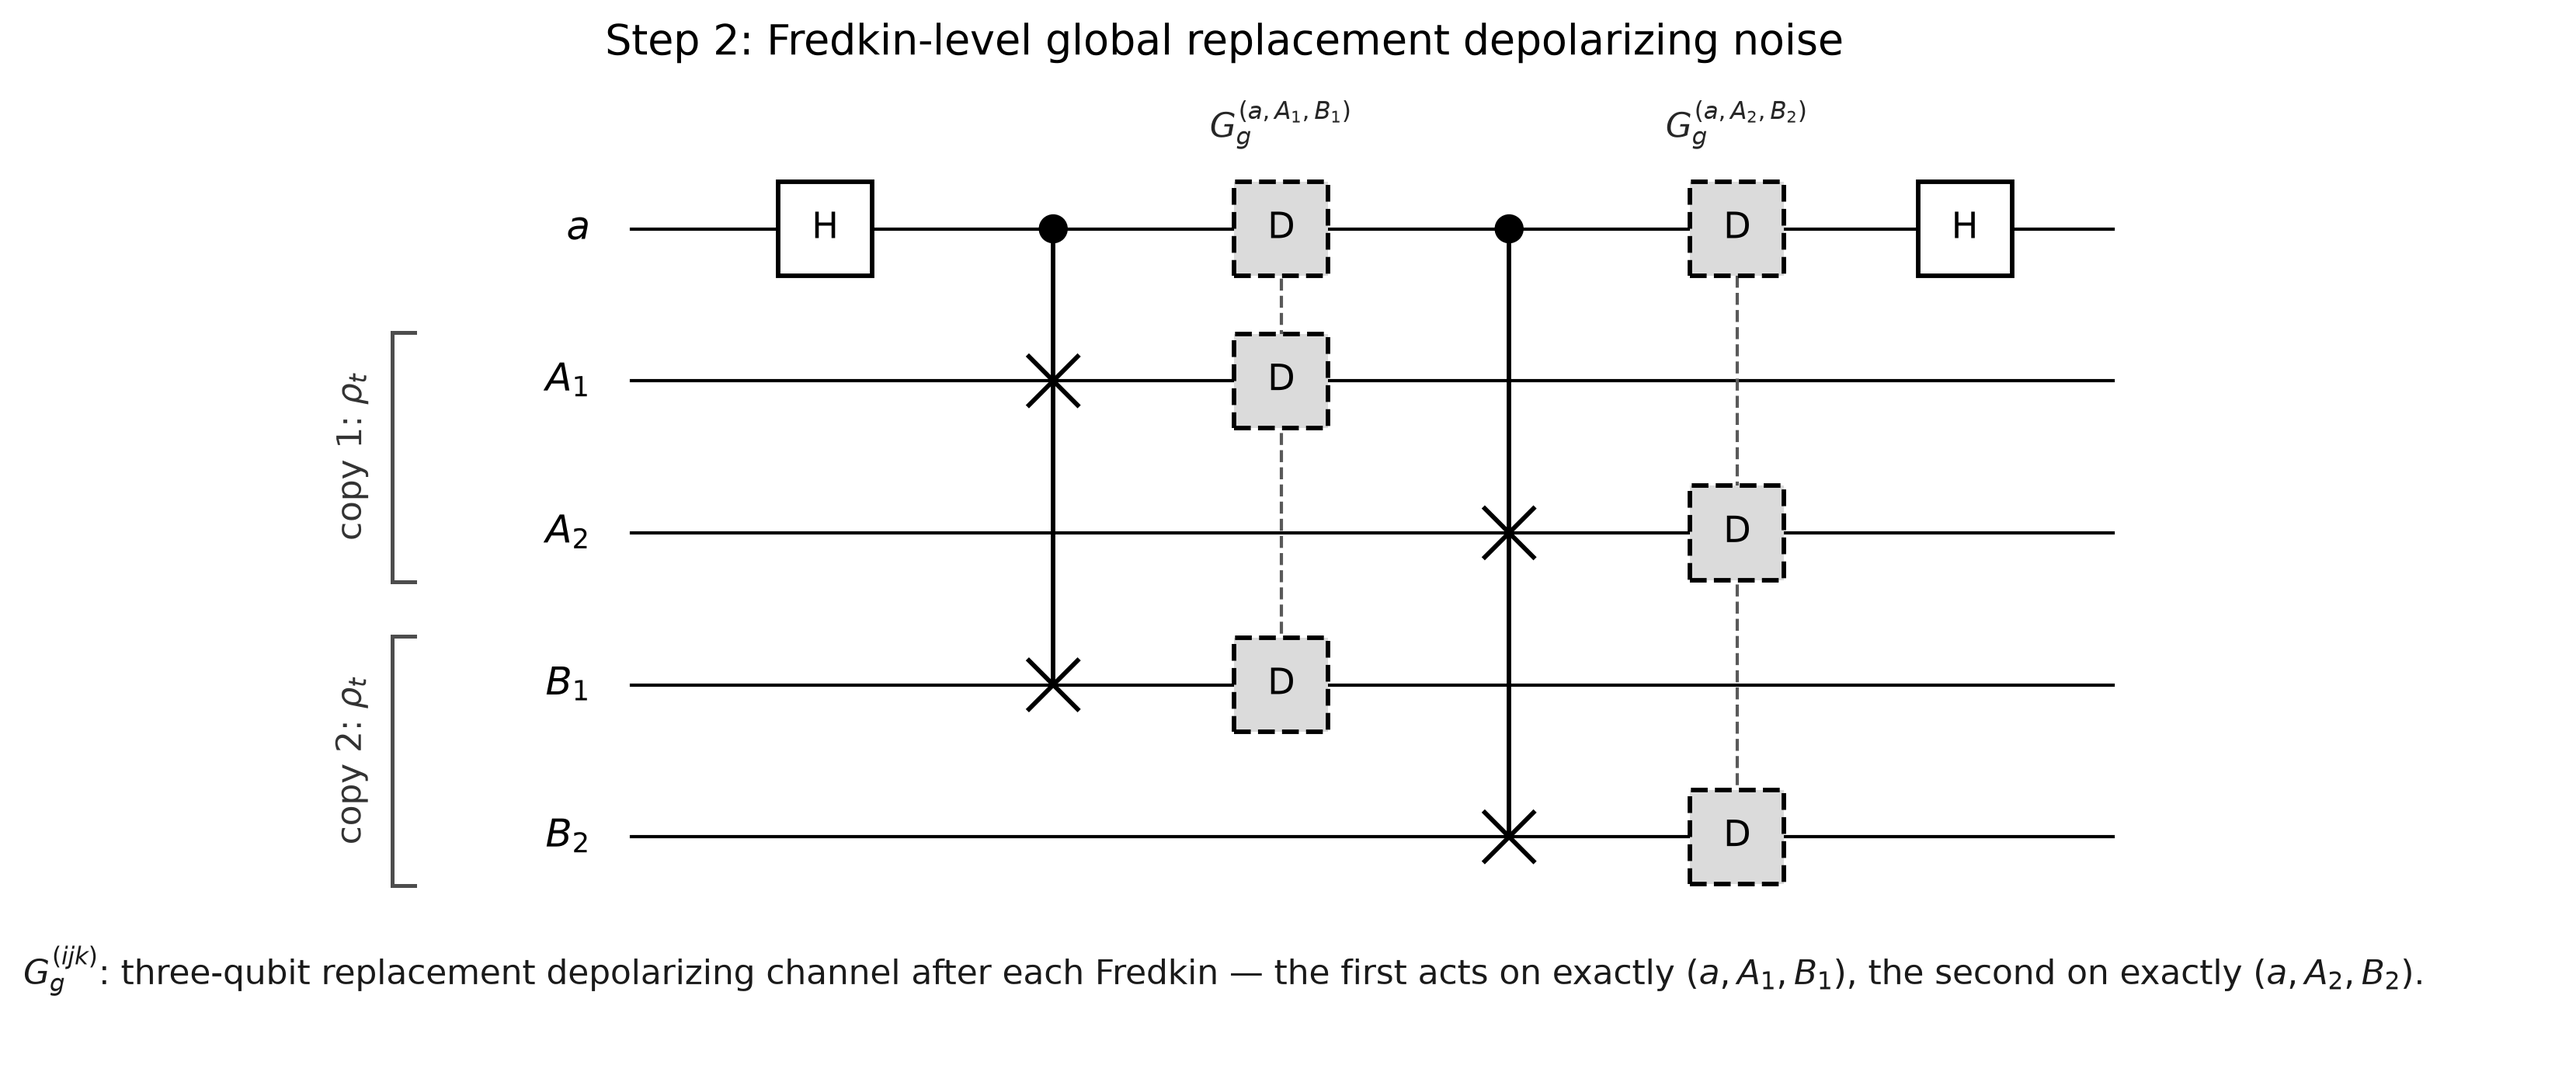
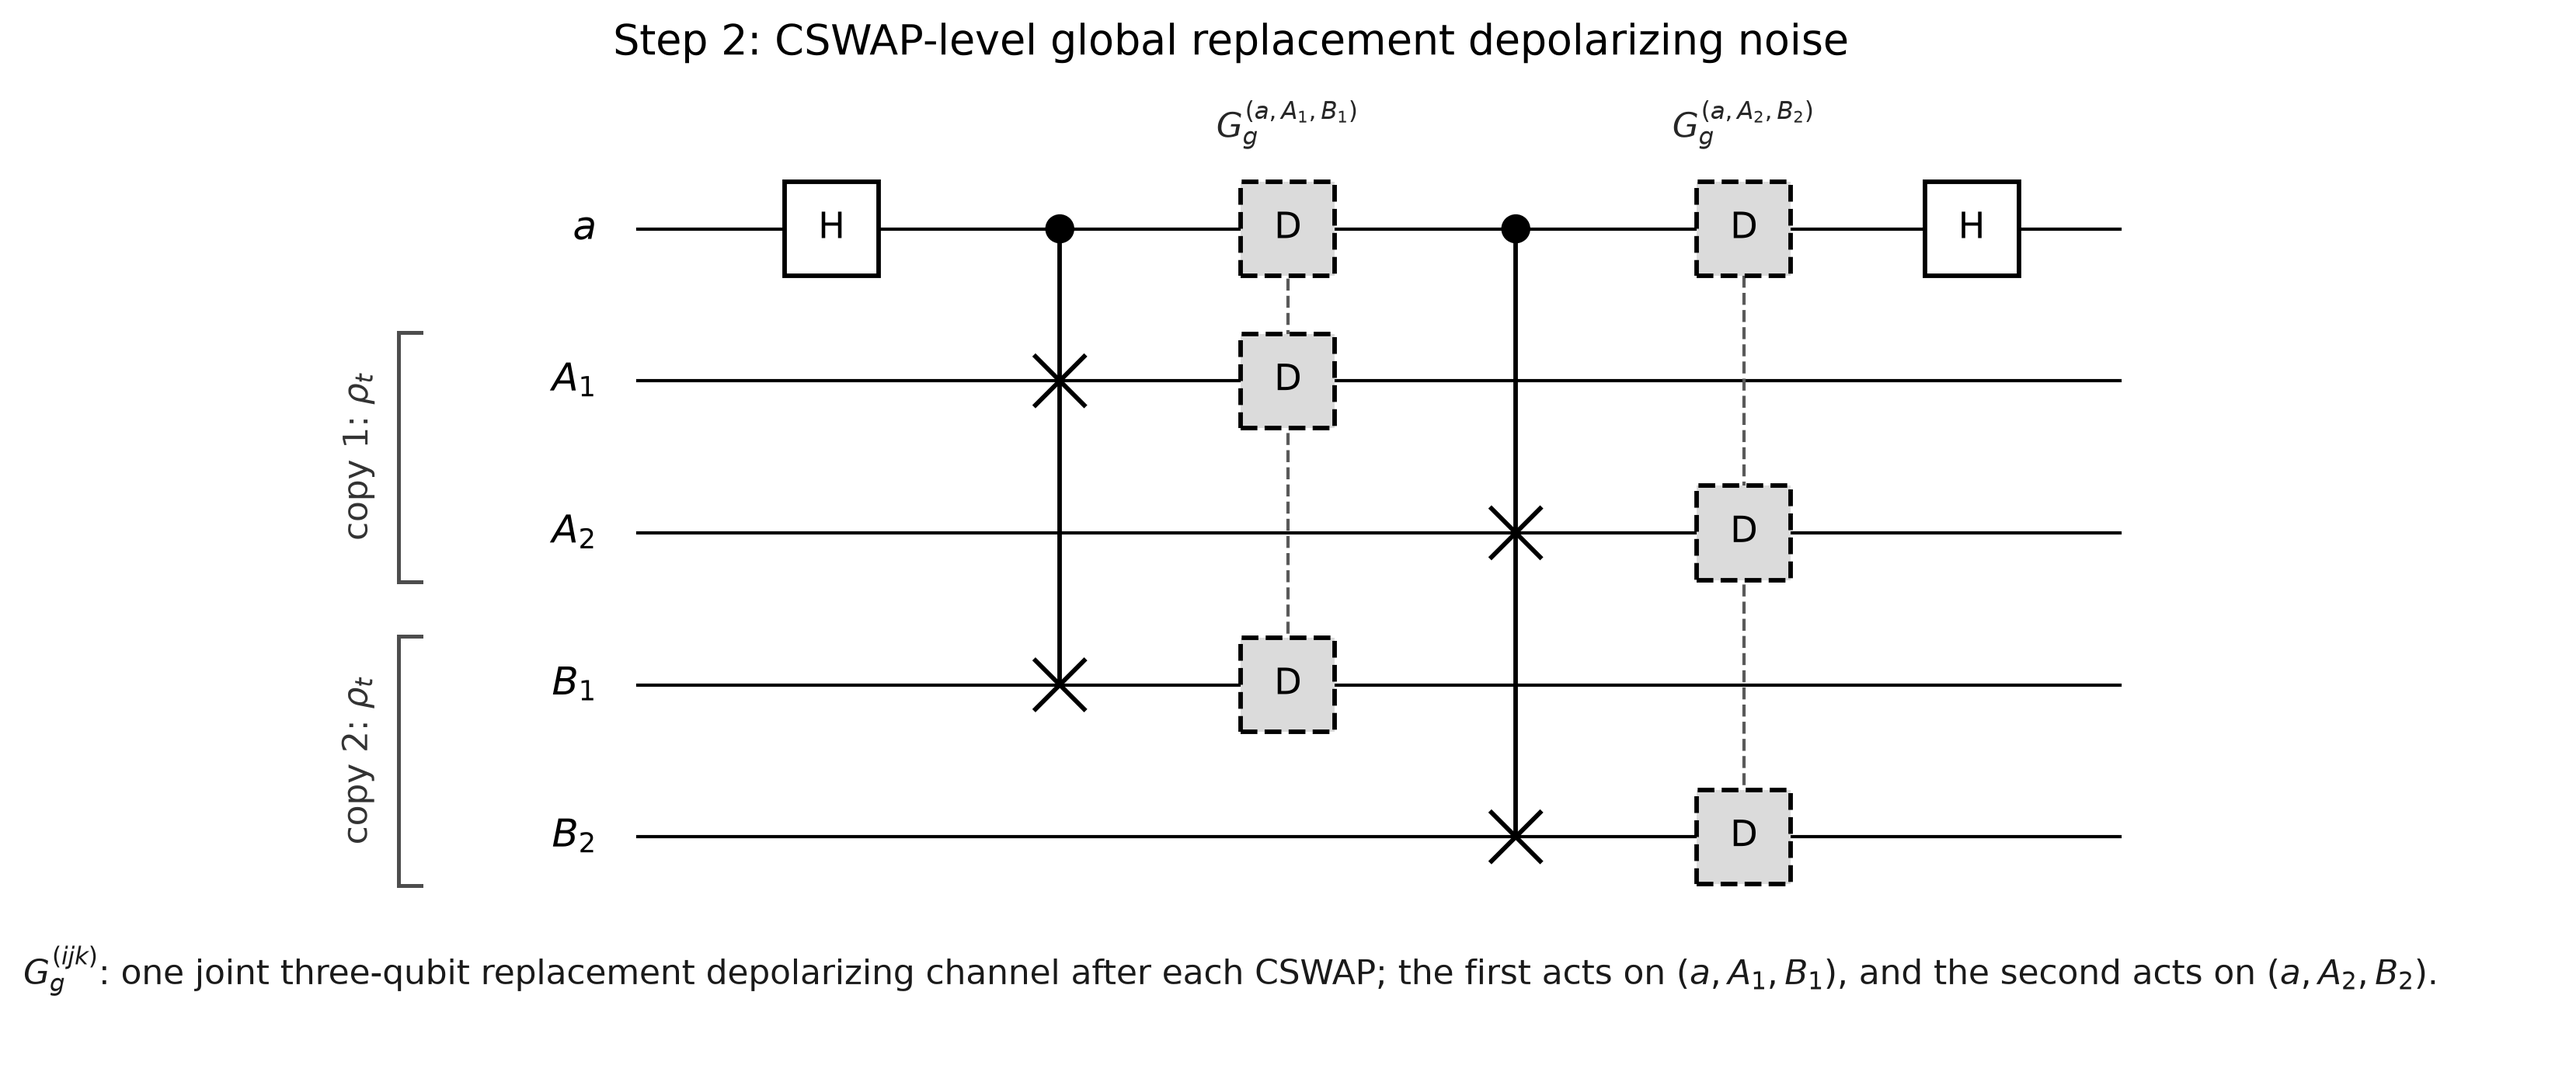
Figures: replace 'Fredkin' wording in Step 2 (->CSWAP) and Step 3 (->Controlled-SWAP)
Terminology-only change to the rendered text of the two figures; circuit gate sequences,
CNOT control/target directions, single-qubit gate placement, noise model, sizes, dpi,
aspect ratio, fonts, and style are unchanged.

Step 2 (figures/step2_fredkin_noise_circuit.png):
  title  'Fredkin-level ...'            -> 'CSWAP-level ...'
  note   '... after each Fredkin ...'   -> 'one joint three-qubit replacement depolarizing
          channel after each CSWAP; the first acts on (a,A1,B1), and the second acts on
          (a,A2,B2).'
Step 3 (figures/step3_textbook_16cnot_circuit.png):
  title  'two-Fredkin decomposition'    -> 'two-Controlled-SWAP decomposition'
  note   '8 CNOTs per Fredkin ...'      -> 'Textbook Clifford+T decomposition: 8 CNOTs per
          Controlled-SWAP, 16 CNOTs in total; single-qubit gates are ideal.'
         (D_q-after-every-CNOT line kept)

Source script scripts/generate_paper_figures.py updated so regeneration never reintroduces
'Fredkin' (no occurrence remains). File paths/names unchanged; LaTeX include paths intact.

diff --git a/scripts/generate_paper_figures.py b/scripts/generate_paper_figures.py
@@ -7,7 +7,7 @@ or numerical result: the Step 3 / Step 4 / Step 5 circuit drawings are built *di
 from the actual simulation objects, so the picture is identical to what is simulated:
 
   * Step 3 (textbook 16-CNOT)      -- replays verify_analytic_decomposed._fred (the exact
-                                       8-CNOT/Fredkin decomposition) and renders the
+                                       8-CNOT/Controlled-SWAP decomposition) and renders the
                                        captured operation tape (16 CNOTs).
   * Step 4 (resynthesized 14-CNOT) -- renders pqec_resynth_noise.GATES verbatim (14 cx).
   * Step 5 (learned 14-CNOT)       -- renders draw_pqc_5abc.merged_circuit() from the
@@ -286,7 +286,7 @@ def fig_step1():
 
 
 # ===========================================================================
-# Figure 3 — Step 2: Fredkin-level global noise
+# Figure 3 — Step 2: CSWAP-level global noise
 # ===========================================================================
 def fig_step2():
     items = [
@@ -299,11 +299,11 @@ def fig_step2():
     ]
     draw_circuit(
         items, WIRES5, "step2_fredkin_noise_circuit.png",
-        title="Step 2: Fredkin-level global replacement depolarizing noise",
+        title="Step 2: CSWAP-level global replacement depolarizing noise",
         brace_groups=[(1, 2, r"copy 1: $\rho_t$"), (3, 4, r"copy 2: $\rho_t$")],
-        notes=[r"$G_g^{(ijk)}$: three-qubit replacement depolarizing channel after each"
-               r" Fredkin — the first acts on exactly $(a,A_1,B_1)$, the second on"
-               r" exactly $(a,A_2,B_2)$."],
+        notes=[r"$G_g^{(ijk)}$: one joint three-qubit replacement depolarizing channel"
+               r" after each CSWAP; the first acts on $(a,A_1,B_1)$, and the second acts"
+               r" on $(a,A_2,B_2)$."],
         col_scale=1.5,
     )
 
@@ -351,11 +351,11 @@ def fig_step3():
     assert ncx == 16, f"Step 3 must have 16 CNOTs, got {ncx}"
     draw_circuit(
         items, WIRES5, "step3_textbook_16cnot_circuit.png",
-        title=r"Step 3: textbook two-Fredkin decomposition (16 CNOTs)",
-        notes=[r"Textbook Clifford+$T$ Toffoli (6 CNOTs) $\Rightarrow$ 8 CNOTs per Fredkin,"
-               r" 16 total; single-qubit gates ideal.",
+        title=r"Step 3: textbook two-Controlled-SWAP decomposition (16 CNOTs)",
+        notes=[r"Textbook Clifford+$T$ decomposition: 8 CNOTs per Controlled-SWAP,"
+               r" 16 CNOTs in total; single-qubit gates are ideal.",
                r"A two-qubit replacement depolarizing channel $D_q$ is applied after"
-               r" every CNOT (16 in total)."],
+               r" every CNOT."],
         col_scale=0.92,
     )
     return ncx, cx_seq
